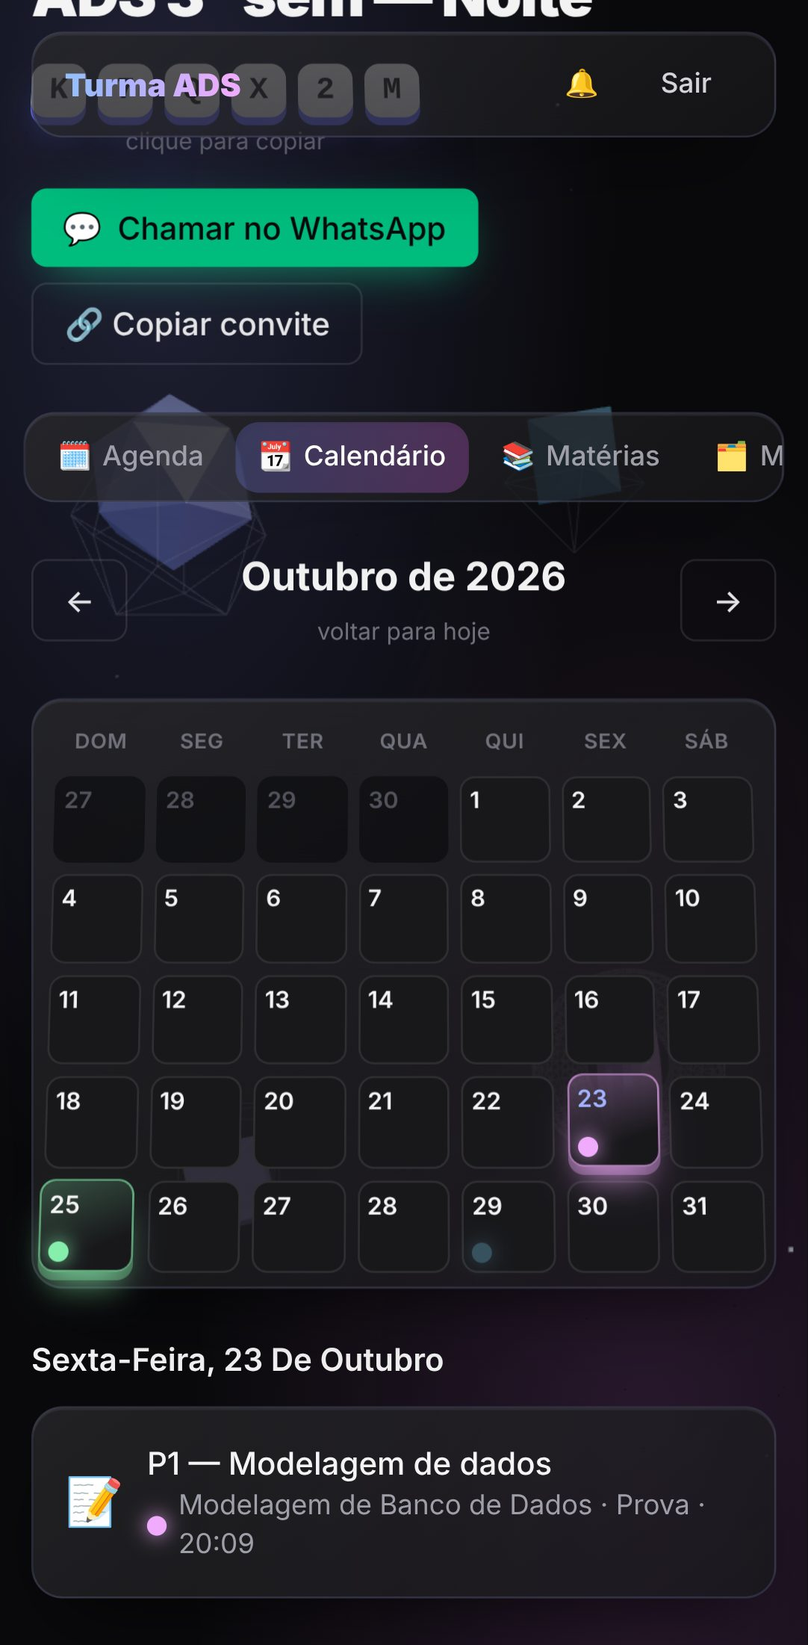
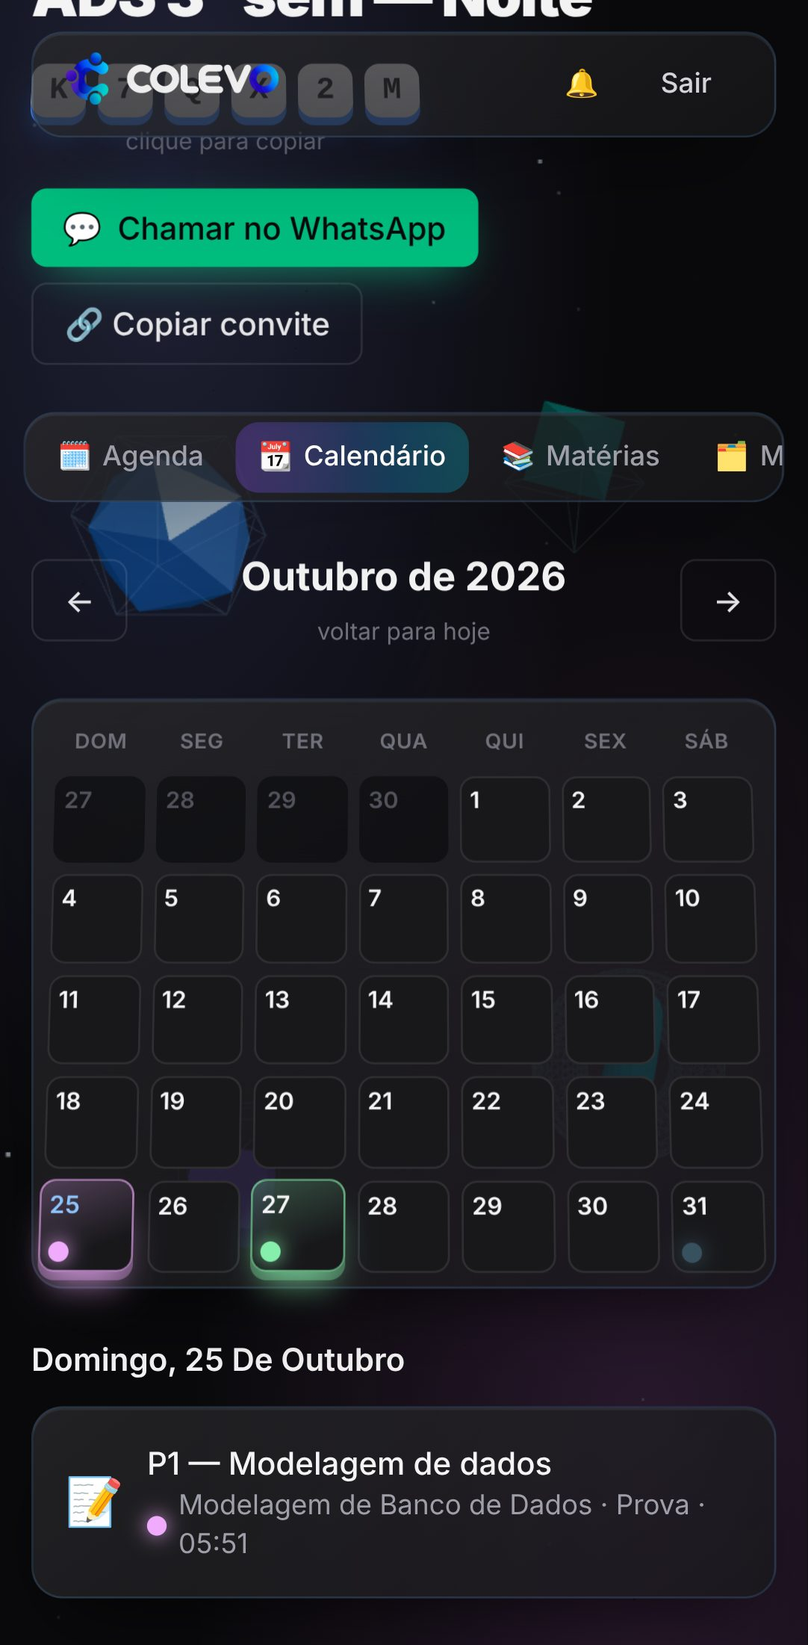
Nova marca: Colevo (coletivo + evolução) — Crescemos juntos
- Logo aplicada no app (versão com letras claras para o fundo escuro),
  na tela de entrada, nos ícones do PWA, favicon e no e-mail de lembrete
- Cores do app alinhadas à logo: roxo, azul, ciano e verde-água
- Textos voltados a estudantes de qualquer curso
- README com a nova identidade e prints atualizados

Claude-Session: https://claude.ai/code/session_01LPd3iDwAj924mu54k76acW

diff --git a/src/features/salas/TelaSalas.tsx b/src/features/salas/TelaSalas.tsx
@@ -47,14 +47,14 @@ export function TelaSalas() {
             <li key={s.id} className="entrar-3d" style={atraso(i + 3)}>
               <button onClick={() => abrirSala(s.id)} className="w-full text-left">
                 <Tilt className="rounded-2xl">
-                  <Cartao className="flex items-center gap-4 transition hover:border-indigo-400/50">
-                    <div className="profundidade-1 grid size-12 shrink-0 place-items-center rounded-xl bg-gradient-to-br from-indigo-400 to-fuchsia-400 text-lg font-black text-zinc-950 shadow-lg shadow-indigo-500/30">
+                  <Cartao className="flex items-center gap-4 transition hover:border-blue-400/50">
+                    <div className="profundidade-1 grid size-12 shrink-0 place-items-center rounded-xl bg-gradient-to-br from-violet-600 via-blue-500 to-cyan-400 text-lg font-black text-white shadow-lg shadow-blue-500/30">
                       {s.nome.trim().charAt(0).toUpperCase()}
                     </div>
                     <div className="min-w-0 flex-1">
                       <p className="truncate font-semibold">{s.nome}</p>
                       <p className="text-sm text-zinc-500">
-                        <span className="font-mono text-indigo-300">{s.codigo}</span> · {s.total} {s.total === 1 ? 'aluno' : 'alunos'}
+                        <span className="font-mono text-blue-300">{s.codigo}</span> · {s.total} {s.total === 1 ? 'aluno' : 'alunos'}
                       </p>
                     </div>
                     <span className="text-zinc-500" aria-hidden>→</span>
@@ -78,7 +78,7 @@ export function TelaSalas() {
             <p className="text-zinc-400">Passe o código e a senha para a turma:</p>
             <CodigoGrande codigo={criada.codigo} />
             <p>
-              Senha: <span className="rounded-md bg-white/5 px-2 py-1 font-mono text-fuchsia-300">{criada.senha}</span>
+              Senha: <span className="rounded-md bg-white/5 px-2 py-1 font-mono text-violet-300">{criada.senha}</span>
             </p>
             <p className="text-xs text-zinc-500">Guarde a senha: por segurança ela não fica visível depois. Você pode trocar no painel do líder.</p>
             <div className="flex justify-center"><Compartilhar nome={criada.nome} codigo={criada.codigo} senha={criada.senha} /></div>
@@ -94,8 +94,8 @@ function BotaoGrande({ icone, titulo, texto, onClick, i }: { icone: string; titu
   return (
     <button onClick={onClick} className="entrar-3d text-left" style={atraso(i)}>
       <Tilt className="rounded-2xl" max={12}>
-        <Cartao className="relative overflow-hidden p-6 transition hover:border-fuchsia-400/50">
-          <div className="pointer-events-none absolute -right-6 -top-6 size-28 rounded-full bg-fuchsia-400/10 blur-2xl" />
+        <Cartao className="relative overflow-hidden p-6 transition hover:border-violet-400/50">
+          <div className="pointer-events-none absolute -right-6 -top-6 size-28 rounded-full bg-violet-400/10 blur-2xl" />
           <div className="profundidade-2 text-4xl">{icone}</div>
           <p className="profundidade-1 mt-3 text-xl font-black uppercase tracking-wide">{titulo}</p>
           <p className="profundidade-1 text-sm text-zinc-400">{texto}</p>
@@ -118,8 +118,8 @@ function FormCriar({ aoCriar }: { aoCriar: (s: SalaCriada) => void }) {
 
   return (
     <form onSubmit={enviar} className="space-y-3">
-      <Campo rotulo="Nome da sala" placeholder="ADS 3º sem — Noite" maxLength={60} value={nome} onChange={(e) => setNome(e.target.value)} required autoFocus />
-      <Campo rotulo={`Senha da sala (mín. ${SENHA_MINIMA} caracteres)`} placeholder="ex: unicid2026" minLength={SENHA_MINIMA} value={senha} onChange={(e) => setSenha(e.target.value)} required />
+      <Campo rotulo="Nome da sala" placeholder="Turma de Cálculo — 2º sem" maxLength={60} value={nome} onChange={(e) => setNome(e.target.value)} required autoFocus />
+      <Campo rotulo={`Senha da sala (mín. ${SENHA_MINIMA} caracteres)`} placeholder="ex: turma2026" minLength={SENHA_MINIMA} value={senha} onChange={(e) => setSenha(e.target.value)} required />
       <p className="text-xs text-zinc-500">A senha impede que alguém entre só chutando o código.</p>
       <Erro erro={criar.error} />
       <Botao type="submit" disabled={criar.isPending} className="w-full">{criar.isPending ? 'Criando…' : 'Criar sala'}</Botao>

diff --git a/src/features/materiais/AbaMateriais.tsx b/src/features/materiais/AbaMateriais.tsx
@@ -27,7 +27,7 @@ export function AbaMateriais({ salaId, euId, lider }: { salaId: string; euId?: s
     return (
       <Vazio icone="📚" titulo="Cadastre as matérias primeiro">
         Os materiais ficam organizados por matéria.{' '}
-        <button className="text-indigo-300 underline" onClick={() => navigate({ to: '/sala/$salaId', params: { salaId }, search: { aba: 'materias' } })}>
+        <button className="text-blue-300 underline" onClick={() => navigate({ to: '/sala/$salaId', params: { salaId }, search: { aba: 'materias' } })}>
           Ir para Matérias
         </button>
       </Vazio>
@@ -80,15 +80,15 @@ export function AbaMateriais({ salaId, euId, lider }: { salaId: string; euId?: s
                     {m.tipo === 'nota' && <p className="mt-2 whitespace-pre-wrap text-sm text-zinc-300">{m.conteudo}</p>}
                     <div className="mt-2 flex flex-wrap items-center gap-3 text-sm">
                       {m.tipo === 'link' && m.url && (
-                        <a href={m.url} target="_blank" rel="noreferrer noopener" className="text-indigo-300 hover:underline">Abrir link ↗</a>
+                        <a href={m.url} target="_blank" rel="noreferrer noopener" className="text-blue-300 hover:underline">Abrir link ↗</a>
                       )}
                       {m.tipo === 'arquivo' && m.arquivo_path && (
-                        <button onClick={() => abrir(m)} className="text-indigo-300 hover:underline">Abrir arquivo ↗</button>
+                        <button onClick={() => abrir(m)} className="text-blue-300 hover:underline">Abrir arquivo ↗</button>
                       )}
                       <button
                         onClick={() => curtir.mutate({ materialId: m.id, curtir: !curti })}
                         aria-pressed={curti}
-                        className={`rounded-full px-2.5 py-0.5 text-xs transition ${curti ? 'bg-fuchsia-400/20 text-fuchsia-300' : 'bg-white/5 text-zinc-400 hover:text-fuchsia-300'}`}
+                        className={`rounded-full px-2.5 py-0.5 text-xs transition ${curti ? 'bg-violet-400/20 text-violet-300' : 'bg-white/5 text-zinc-400 hover:text-violet-300'}`}
                       >
                         {curti ? '💜' : '🤍'} {m.curtidas.length}
                       </button>
@@ -142,7 +142,7 @@ function NovoMaterial({ salaId }: { salaId: string }) {
 
   if (!aberto) {
     return (
-      <button onClick={() => setAberto(true)} className="vidro entrar-3d flex w-full items-center justify-center gap-2 rounded-2xl border-dashed p-4 text-zinc-300 transition hover:border-indigo-400/50 hover:text-white">
+      <button onClick={() => setAberto(true)} className="vidro entrar-3d flex w-full items-center justify-center gap-2 rounded-2xl border-dashed p-4 text-zinc-300 transition hover:border-blue-400/50 hover:text-white">
         <span className="text-xl">＋</span> Compartilhar material
       </button>
     )

diff --git a/src/components/ui.tsx b/src/components/ui.tsx
@@ -3,10 +3,10 @@ import { useEffect, type ButtonHTMLAttributes, type CSSProperties, type InputHTM
 export function Botao({ variante = 'primario', className = '', ...props }: ButtonHTMLAttributes<HTMLButtonElement> & { variante?: 'primario' | 'fantasma' | 'perigo' | 'contorno' }) {
   const estilos = {
     primario:
-      'bg-gradient-to-r from-indigo-400 to-fuchsia-400 text-zinc-950 shadow-[0_8px_24px_-8px_rgba(165,180,252,0.7)] hover:-translate-y-0.5 hover:shadow-[0_12px_28px_-8px_rgba(232,121,249,0.7)] active:translate-y-0',
+      'bg-gradient-to-r from-violet-600 via-blue-600 to-cyan-500 text-white shadow-[0_8px_24px_-8px_rgba(59,130,246,0.8)] hover:-translate-y-0.5 hover:shadow-[0_12px_28px_-8px_rgba(34,211,238,0.7)] active:translate-y-0',
     fantasma: 'text-zinc-300 hover:bg-white/5',
     perigo: 'border border-red-400/30 text-red-300 hover:bg-red-500/10',
-    contorno: 'border border-white/10 text-zinc-200 hover:border-indigo-400/50 hover:bg-white/5',
+    contorno: 'border border-white/10 text-zinc-200 hover:border-blue-400/50 hover:bg-white/5',
   }
   return (
     <button
@@ -17,7 +17,7 @@ export function Botao({ variante = 'primario', className = '', ...props }: Butto
 }
 
 const estiloEntrada =
-  'w-full rounded-lg border border-white/10 bg-zinc-950/60 px-3 py-2 outline-none transition focus:border-indigo-400 focus:shadow-[0_0_0_3px_rgba(129,140,248,0.2)]'
+  'w-full rounded-lg border border-white/10 bg-zinc-950/60 px-3 py-2 outline-none transition focus:border-blue-400 focus:shadow-[0_0_0_3px_rgba(129,140,248,0.2)]'
 
 export function Campo({ rotulo, className = '', ...props }: InputHTMLAttributes<HTMLInputElement> & { rotulo: string }) {
   return (
@@ -93,7 +93,7 @@ export function BarraProgresso({ valor, total }: { valor: number; total: number 
   const pct = total === 0 ? 0 : Math.round((valor / total) * 100)
   return (
     <div className="h-2.5 w-full overflow-hidden rounded-full bg-white/5" role="progressbar" aria-valuenow={pct} aria-valuemin={0} aria-valuemax={100}>
-      <div className="h-full rounded-full bg-gradient-to-r from-indigo-400 via-fuchsia-400 to-emerald-300 transition-[width] duration-700" style={{ width: `${pct}%` }} />
+      <div className="h-full rounded-full bg-gradient-to-r from-violet-500 via-blue-500 to-teal-300 transition-[width] duration-700" style={{ width: `${pct}%` }} />
     </div>
   )
 }

diff --git a/src/features/calendario/AbaCalendario.tsx b/src/features/calendario/AbaCalendario.tsx
@@ -5,7 +5,7 @@ import { useConcluidos, useEventos, type Evento } from '../eventos/api'
 import { iconesTipo, rotulosTipo } from '../eventos/CardEvento'
 import { DIAS_SEMANA, gerarMes, nomeMes } from './mes'
 
-const COR_PADRAO = '#a5b4fc'
+const COR_PADRAO = '#60a5fa'
 
 /**
  * Calendário do mês em 3D: a grade fica inclinada como uma mesa,
@@ -42,7 +42,7 @@ export function AbaCalendario({ salaId }: { salaId: string }) {
         <Botao variante="contorno" onClick={() => mudarMes(-1)} aria-label="Mês anterior" className="px-3">←</Botao>
         <div className="text-center">
           <h3 className="text-xl font-bold">{nomeMes(mes.ano, mes.mes)}</h3>
-          <button onClick={() => { setMes({ ano: hoje.getFullYear(), mes: hoje.getMonth() }); setSelecionado(hoje) }} className="text-xs text-zinc-500 hover:text-indigo-300">
+          <button onClick={() => { setMes({ ano: hoje.getFullYear(), mes: hoje.getMonth() }); setSelecionado(hoje) }} className="text-xs text-zinc-500 hover:text-blue-300">
             voltar para hoje
           </button>
         </div>
@@ -69,7 +69,7 @@ export function AbaCalendario({ salaId }: { salaId: string }) {
                 aria-pressed={ativo}
                 className={`dia-3d relative flex aspect-square flex-col sm:aspect-[5/4] rounded-lg border p-1 text-left transition sm:rounded-xl sm:p-1.5 ${
                   doMes ? 'border-white/10 bg-zinc-900' : 'border-transparent bg-zinc-950/60 text-zinc-600'
-                } ${ativo ? 'ring-2 ring-fuchsia-400' : ''} ${ehHoje ? 'border-indigo-400/70' : ''}`}
+                } ${ativo ? 'ring-2 ring-violet-400' : ''} ${ehHoje ? 'border-blue-400/70' : ''}`}
                 style={
                   cor
                     ? {
@@ -81,7 +81,7 @@ export function AbaCalendario({ salaId }: { salaId: string }) {
                     : undefined
                 }
               >
-                <span className={`text-xs font-semibold sm:text-sm ${ehHoje ? 'text-indigo-300' : ''}`}>{data.getDate()}</span>
+                <span className={`text-xs font-semibold sm:text-sm ${ehHoje ? 'text-blue-300' : ''}`}>{data.getDate()}</span>
                 {evs.length > 0 && (
                   <>
                     <span className="mt-auto flex flex-wrap gap-0.5">

diff --git a/supabase/functions/enviar-lembretes/index.ts b/supabase/functions/enviar-lembretes/index.ts
@@ -43,10 +43,11 @@ function montarEmail(nome: string, itens: Pendente[]) {
 
   const html = `<div style="background:#09090b;padding:32px 16px;font-family:Arial,sans-serif">
     <div style="max-width:520px;margin:0 auto;background:#18181b;border:1px solid #3f3f46;border-radius:16px;padding:24px">
-      <h1 style="margin:0 0 4px;font-size:22px;color:#a5b4fc">Turma ADS</h1>
+      <h1 style="margin:0;font-size:24px;letter-spacing:1px;color:#60a5fa">COLEVO</h1>
+      <p style="margin:0 0 16px;font-size:11px;letter-spacing:2px;color:#71717a">CRESCEMOS JUNTOS.</p>
       <p style="margin:0 0 16px;color:#d4d4d8">Oi, ${escapar(nome)}! Isso está chegando:</p>
       <table style="width:100%;border-collapse:collapse">${linhas}</table>
-      <a href="${APP_URL}" style="display:inline-block;margin-top:20px;background:#a5b4fc;color:#09090b;padding:10px 18px;border-radius:10px;text-decoration:none;font-weight:bold">Abrir o app</a>
+      <a href="${APP_URL}" style="display:inline-block;margin-top:20px;background:linear-gradient(90deg,#7c3aed,#2563eb,#06b6d4);color:#ffffff;padding:10px 18px;border-radius:10px;text-decoration:none;font-weight:bold">Abrir o Colevo</a>
       <p style="margin-top:20px;font-size:12px;color:#71717a">Você recebe isso porque ativou lembretes por e-mail. Dá para mudar em 🔔 Lembretes no app.</p>
     </div>
   </div>`
@@ -68,7 +69,7 @@ Deno.serve(async (req) => {
 
   const chave = Deno.env.get('RESEND_API_KEY')
   if (!chave) return resposta({ pendentes: pendentes.length, enviados: 0, aviso: 'RESEND_API_KEY não configurada' })
-  const remetente = Deno.env.get('EMAIL_REMETENTE') ?? 'Turma ADS <onboarding@resend.dev>'
+  const remetente = Deno.env.get('EMAIL_REMETENTE') ?? 'Colevo <onboarding@resend.dev>'
 
   // Um e-mail por aluno, juntando tudo o que está chegando para ele.
   const porAluno = new Map<string, Pendente[]>()

diff --git a/src/features/materias/AbaMaterias.tsx b/src/features/materias/AbaMaterias.tsx
@@ -21,7 +21,7 @@ export function AbaMaterias({ salaId }: { salaId: string }) {
       ) : (
         <button
           onClick={() => setEdicao({ nome: '', professor: '', cor: CORES_MATERIA[(materias.data?.length ?? 0) % CORES_MATERIA.length] })}
-          className="vidro entrar-3d flex w-full items-center justify-center gap-2 rounded-2xl border-dashed p-4 text-zinc-300 transition hover:border-indigo-400/50 hover:text-white"
+          className="vidro entrar-3d flex w-full items-center justify-center gap-2 rounded-2xl border-dashed p-4 text-zinc-300 transition hover:border-blue-400/50 hover:text-white"
         >
           <span className="text-xl">＋</span> Nova matéria
         </button>
@@ -44,7 +44,7 @@ export function AbaMaterias({ salaId }: { salaId: string }) {
                   <p className="text-sm text-zinc-400">{m.professor ? `👤 ${m.professor}` : 'Professor não informado'}</p>
                   <p className="mt-2 text-xs text-zinc-500">{proximas(m.id)} {proximas(m.id) === 1 ? 'prova/entrega chegando' : 'provas/entregas chegando'}</p>
                   <div className="mt-3 flex gap-3 text-xs">
-                    <button className="text-zinc-400 hover:text-indigo-300" onClick={() => setEdicao({ id: m.id, nome: m.nome, professor: m.professor ?? '', cor: m.cor })}>✏ Editar</button>
+                    <button className="text-zinc-400 hover:text-blue-300" onClick={() => setEdicao({ id: m.id, nome: m.nome, professor: m.professor ?? '', cor: m.cor })}>✏ Editar</button>
                     <button
                       className="text-zinc-400 hover:text-red-300"
                       onClick={() => confirm(`Apagar "${m.nome}"? As provas continuam, mas os materiais desta matéria serão apagados.`) && apagar.mutate(m.id)}

diff --git a/src/features/eventos/AbaAgenda.tsx b/src/features/eventos/AbaAgenda.tsx
@@ -41,13 +41,13 @@ export function AbaAgenda({ salaId, nomeSala, euId, lider }: { salaId: string; n
   return (
     <div className="space-y-6">
       {lembretes.length > 0 && (
-        <Cartao className="entrar-3d border-fuchsia-400/30 bg-fuchsia-500/5">
+        <Cartao className="entrar-3d border-violet-400/30 bg-violet-500/5">
           <p className="mb-2 font-semibold">🔔 Chegando aí</p>
           <ul className="space-y-1 text-sm">
             {lembretes.slice(0, 4).map((l) => (
               <li key={l.id} className="flex justify-between gap-3">
                 <span className="truncate">{l.titulo}</span>
-                <span className="shrink-0 font-medium text-fuchsia-300">{l.dias === 0 ? 'hoje' : l.dias === 1 ? 'amanhã' : `em ${l.dias} dias`}</span>
+                <span className="shrink-0 font-medium text-violet-300">{l.dias === 0 ? 'hoje' : l.dias === 1 ? 'amanhã' : `em ${l.dias} dias`}</span>
               </li>
             ))}
           </ul>
@@ -140,7 +140,7 @@ function NovoEventoForm({ salaId }: { salaId: string }) {
 
   if (!aberto) {
     return (
-      <button onClick={() => setAberto(true)} className="vidro entrar-3d flex w-full items-center justify-center gap-2 rounded-2xl border-dashed p-4 text-zinc-300 transition hover:border-indigo-400/50 hover:text-white" style={atraso(2)}>
+      <button onClick={() => setAberto(true)} className="vidro entrar-3d flex w-full items-center justify-center gap-2 rounded-2xl border-dashed p-4 text-zinc-300 transition hover:border-blue-400/50 hover:text-white" style={atraso(2)}>
         <span className="text-xl">＋</span> Adicionar prova, entrega ou apresentação
       </button>
     )

diff --git a/vite.config.ts b/vite.config.ts
@@ -5,7 +5,7 @@ import { defineConfig } from 'vite'
 import { VitePWA } from 'vite-plugin-pwa'
 
 export default defineConfig({
-  // Caminhos relativos: funciona em localhost e em victin7.github.io/Turma-ADS
+  // Caminhos relativos: funciona em localhost e em victin7.github.io/<repositório>
   base: './',
   plugins: [
     react(),
@@ -13,11 +13,11 @@ export default defineConfig({
     // Torna o app instalável no celular (ícone na tela inicial, abre em tela cheia)
     VitePWA({
       registerType: 'autoUpdate', // nova versão publicada = atualiza sozinho
-      includeAssets: ['icone.svg', 'apple-touch-icon.png'],
+      includeAssets: ['favicon.png', 'apple-touch-icon.png'],
       manifest: {
-        name: 'Turma ADS',
-        short_name: 'Turma ADS',
-        description: 'Provas, entregas, matérias e materiais da turma, em salas com código e senha.',
+        name: 'Colevo — Crescemos juntos',
+        short_name: 'Colevo',
+        description: 'A turma organizada junto: provas, entregas, matérias e materiais em salas com código e senha.',
         lang: 'pt-BR',
         start_url: './',
         scope: './',
@@ -27,7 +27,7 @@ export default defineConfig({
         icons: [
           { src: 'icone-192.png', sizes: '192x192', type: 'image/png' },
           { src: 'icone-512.png', sizes: '512x512', type: 'image/png' },
-          { src: 'icone-512.png', sizes: '512x512', type: 'image/png', purpose: 'maskable' },
+          { src: 'icone-maskable-512.png', sizes: '512x512', type: 'image/png', purpose: 'maskable' },
         ],
       },
       workbox: {

diff --git a/src/router.tsx b/src/router.tsx
@@ -2,6 +2,7 @@ import { createHashHistory, createRootRoute, createRoute, createRouter, Link, Ou
 import { useQueryClient } from '@tanstack/react-query'
 import { Botao } from './components/ui'
 import { BotaoInstalar } from './components/BotaoInstalar'
+import { Logo } from './components/Logo'
 import { Fundo3D } from './components/Fundo3D'
 import { supabase } from './lib/supabase'
 import { TelaLogin } from './features/auth/TelaLogin'
@@ -30,7 +31,7 @@ function Raiz() {
         <main className="min-h-screen px-4 py-6 text-zinc-100">
           <div className="mx-auto max-w-3xl space-y-8">
             <header className="vidro sticky top-4 z-20 flex items-center justify-between rounded-2xl px-4 py-2">
-              <Link to="/" className="texto-degrade font-black">Turma ADS</Link>
+              <Link to="/" aria-label="Colevo — início"><Logo /></Link>
               <nav className="flex items-center gap-1 text-sm text-zinc-400">
                 <BotaoInstalar />
                 <Link to="/lembretes" className="rounded-lg px-3 py-2 hover:bg-white/5 [&.active]:text-white" title="Lembretes">🔔<span className="hidden sm:inline"> Lembretes</span></Link>
@@ -79,7 +80,7 @@ export const router = createRouter({
   history: createHashHistory(),
   defaultNotFoundComponent: () => (
     <p className="text-center text-zinc-400">
-      Página não encontrada. <Link to="/" className="text-indigo-300 underline">Voltar</Link>
+      Página não encontrada. <Link to="/" className="text-blue-300 underline">Voltar</Link>
     </p>
   ),
 })

diff --git a/src/components/Cena3D.tsx b/src/components/Cena3D.tsx
@@ -8,7 +8,7 @@ import * as THREE from 'three'
  * Este arquivo é carregado sob demanda (React.lazy) para não pesar o primeiro acesso.
  */
 
-const CORES = ['#a5b4fc', '#c4b5fd', '#f0abfc', '#7dd3fc']
+const CORES = ['#60a5fa', '#8b5cf6', '#22d3ee', '#2dd4bf'] // as cores da logo do Colevo
 
 type Forma = 'icosaedro' | 'toro' | 'octaedro' | 'cubo'
 
@@ -79,7 +79,7 @@ function Estrelas({ quantidade = 900 }) {
       <bufferGeometry>
         <bufferAttribute attach="attributes-position" args={[posicoes, 3]} />
       </bufferGeometry>
-      <pointsMaterial size={0.05} color="#c7d2fe" transparent opacity={0.7} sizeAttenuation />
+      <pointsMaterial size={0.05} color="#bfdbfe" transparent opacity={0.7} sizeAttenuation />
     </points>
   )
 }
@@ -115,8 +115,8 @@ export default function Cena3D() {
         <fog attach="fog" args={['#09090b', 6, 22]} />
         <ambientLight intensity={0.45} />
         <directionalLight position={[5, 6, 5]} intensity={1.2} />
-        <pointLight position={[-6, -3, 2]} intensity={30} color="#818cf8" />
-        <pointLight position={[6, 3, 1]} intensity={25} color="#e879f9" />
+        <pointLight position={[-6, -3, 2]} intensity={30} color="#3b82f6" />
+        <pointLight position={[6, 3, 1]} intensity={25} color="#8b5cf6" />
         <Parallax>
           {(celular ? FORMAS.slice(0, 4) : FORMAS).map((f, i) => (
             // Tela estreita: aproxima as formas do centro e diminui, para aparecerem atrás do conteúdo

diff --git a/src/features/lembretes/TelaLembretes.tsx b/src/features/lembretes/TelaLembretes.tsx
@@ -50,7 +50,7 @@ export function TelaLembretes() {
               key={o.dias}
               onClick={() => alternarDia(o.dias)}
               aria-pressed={dias.includes(o.dias)}
-              className={`rounded-xl border px-3 py-3 text-sm transition ${dias.includes(o.dias) ? 'border-fuchsia-400/60 bg-fuchsia-400/10 text-white' : 'border-white/10 text-zinc-400 hover:text-zinc-200'}`}
+              className={`rounded-xl border px-3 py-3 text-sm transition ${dias.includes(o.dias) ? 'border-violet-400/60 bg-violet-400/10 text-white' : 'border-white/10 text-zinc-400 hover:text-zinc-200'}`}
             >
               {o.rotulo}
             </button>
@@ -62,7 +62,7 @@ export function TelaLembretes() {
         <p className="font-semibold">Como avisar</p>
 
         <label className="flex cursor-pointer items-start gap-3">
-          <input type="checkbox" checked={email} onChange={(e) => setEmail(e.target.checked)} className="mt-1 size-4 accent-fuchsia-400" />
+          <input type="checkbox" checked={email} onChange={(e) => setEmail(e.target.checked)} className="mt-1 size-4 accent-violet-400" />
           <span>
             <span className="font-medium">📧 Por e-mail</span>
             <span className="block text-sm text-zinc-400">Um e-mail de manhã, nos dias escolhidos, para o que você ainda não marcou como feito.</span>

diff --git a/src/features/eventos/agenda-externa.ts b/src/features/eventos/agenda-externa.ts
@@ -24,7 +24,7 @@ export function linkGoogleAgenda(ev: EventoExportavel, nomeSala: string): string
     action: 'TEMPLATE',
     text: ev.materia ? `${ev.titulo} (${ev.materia})` : ev.titulo,
     dates: `${formatoUtc(inicio)}/${formatoUtc(ev.prazo)}`,
-    details: [ev.descricao, `Sala: ${nomeSala} — Turma ADS`].filter(Boolean).join('\n'),
+    details: [ev.descricao, `Sala: ${nomeSala} — Colevo`].filter(Boolean).join('\n'),
   })
   return `https://calendar.google.com/calendar/render?${params}`
 }
@@ -36,11 +36,11 @@ function escaparIcs(t: string): string {
 
 /** Arquivo .ics com todas as provas, cada uma com alarme 1 dia antes e 2 horas antes. */
 export function gerarIcs(eventos: EventoExportavel[], nomeSala: string, agora: Date = new Date()): string {
-  const linhas = ['BEGIN:VCALENDAR', 'VERSION:2.0', 'PRODID:-//Turma ADS//PT-BR', 'CALSCALE:GREGORIAN', `X-WR-CALNAME:${escaparIcs(nomeSala)}`]
+  const linhas = ['BEGIN:VCALENDAR', 'VERSION:2.0', 'PRODID:-//Colevo//PT-BR', 'CALSCALE:GREGORIAN', `X-WR-CALNAME:${escaparIcs(nomeSala)}`]
   for (const ev of eventos) {
     linhas.push(
       'BEGIN:VEVENT',
-      `UID:${ev.id}@turma-ads`,
+      `UID:${ev.id}@colevo`,
       `DTSTAMP:${formatoUtc(agora)}`,
       `DTSTART:${formatoUtc(new Date(ev.prazo.getTime() - UMA_HORA))}`,
       `DTEND:${formatoUtc(ev.prazo)}`,
